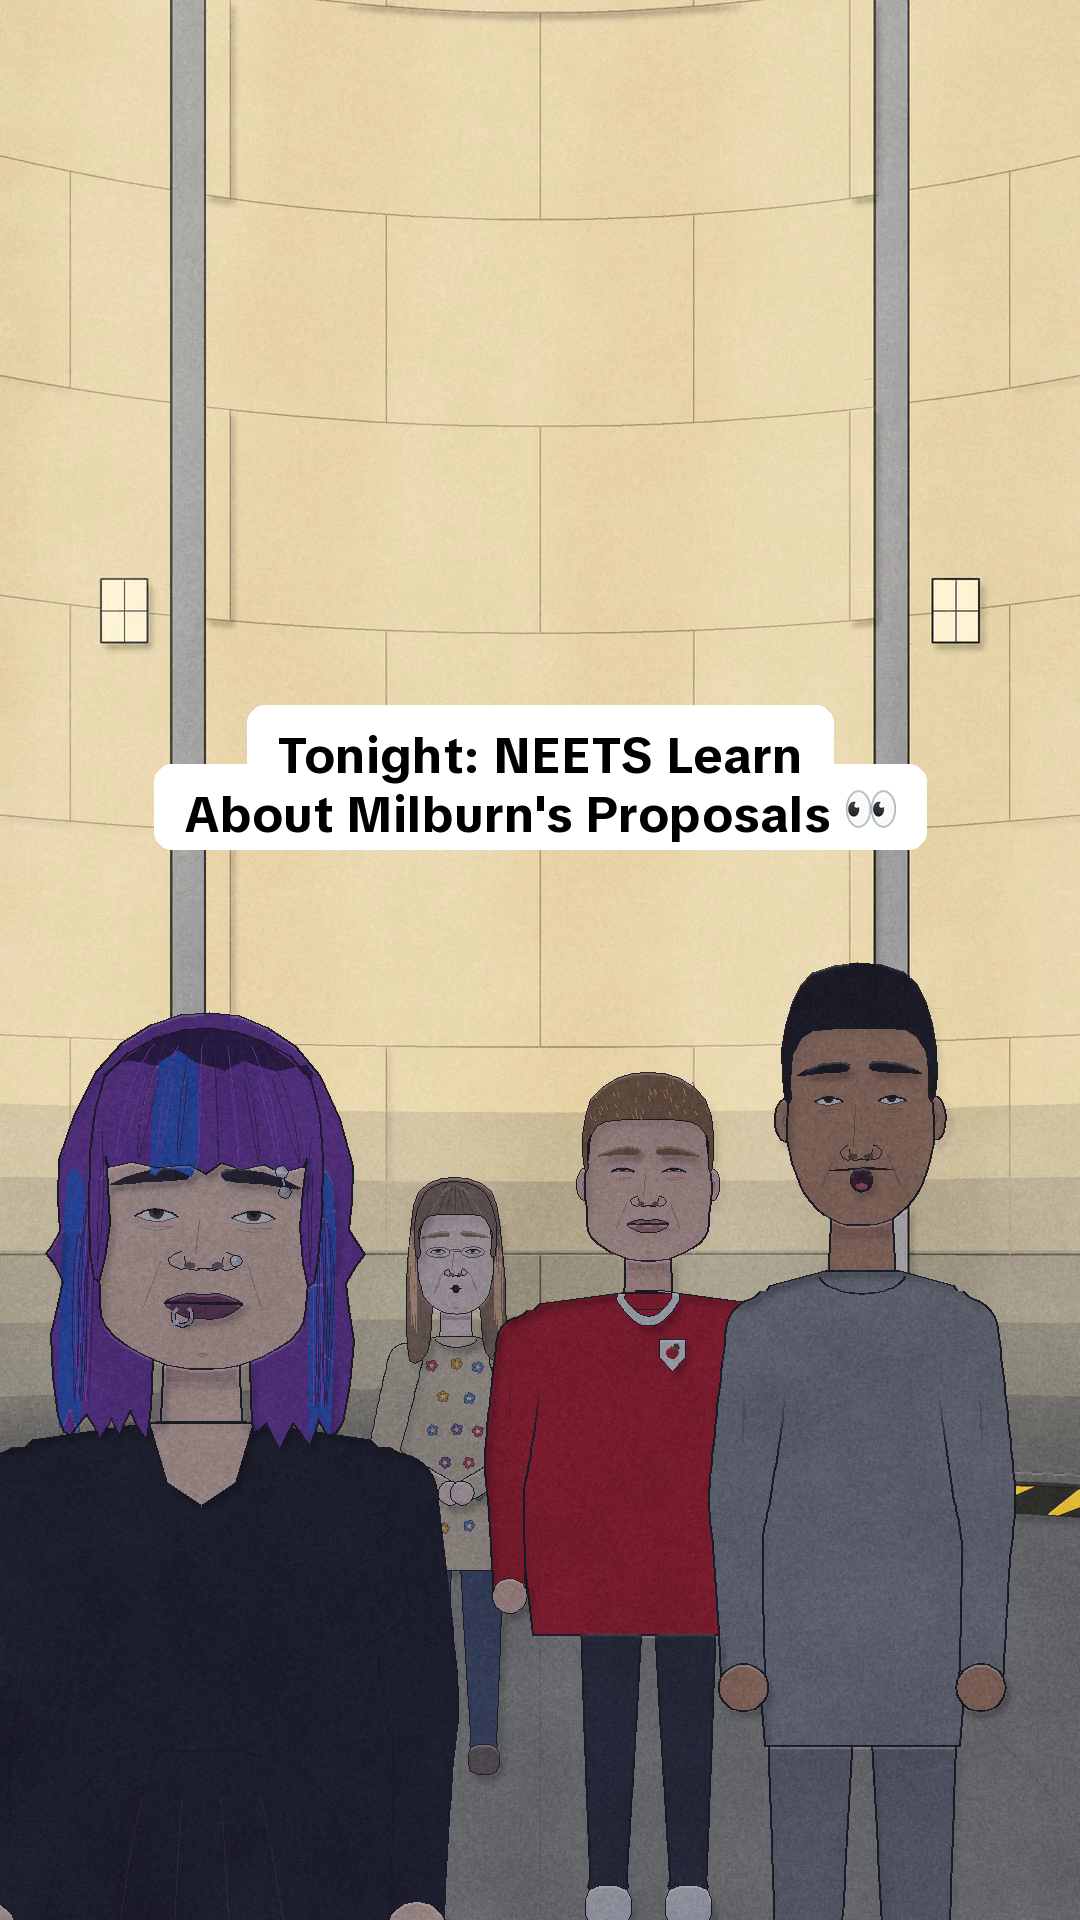
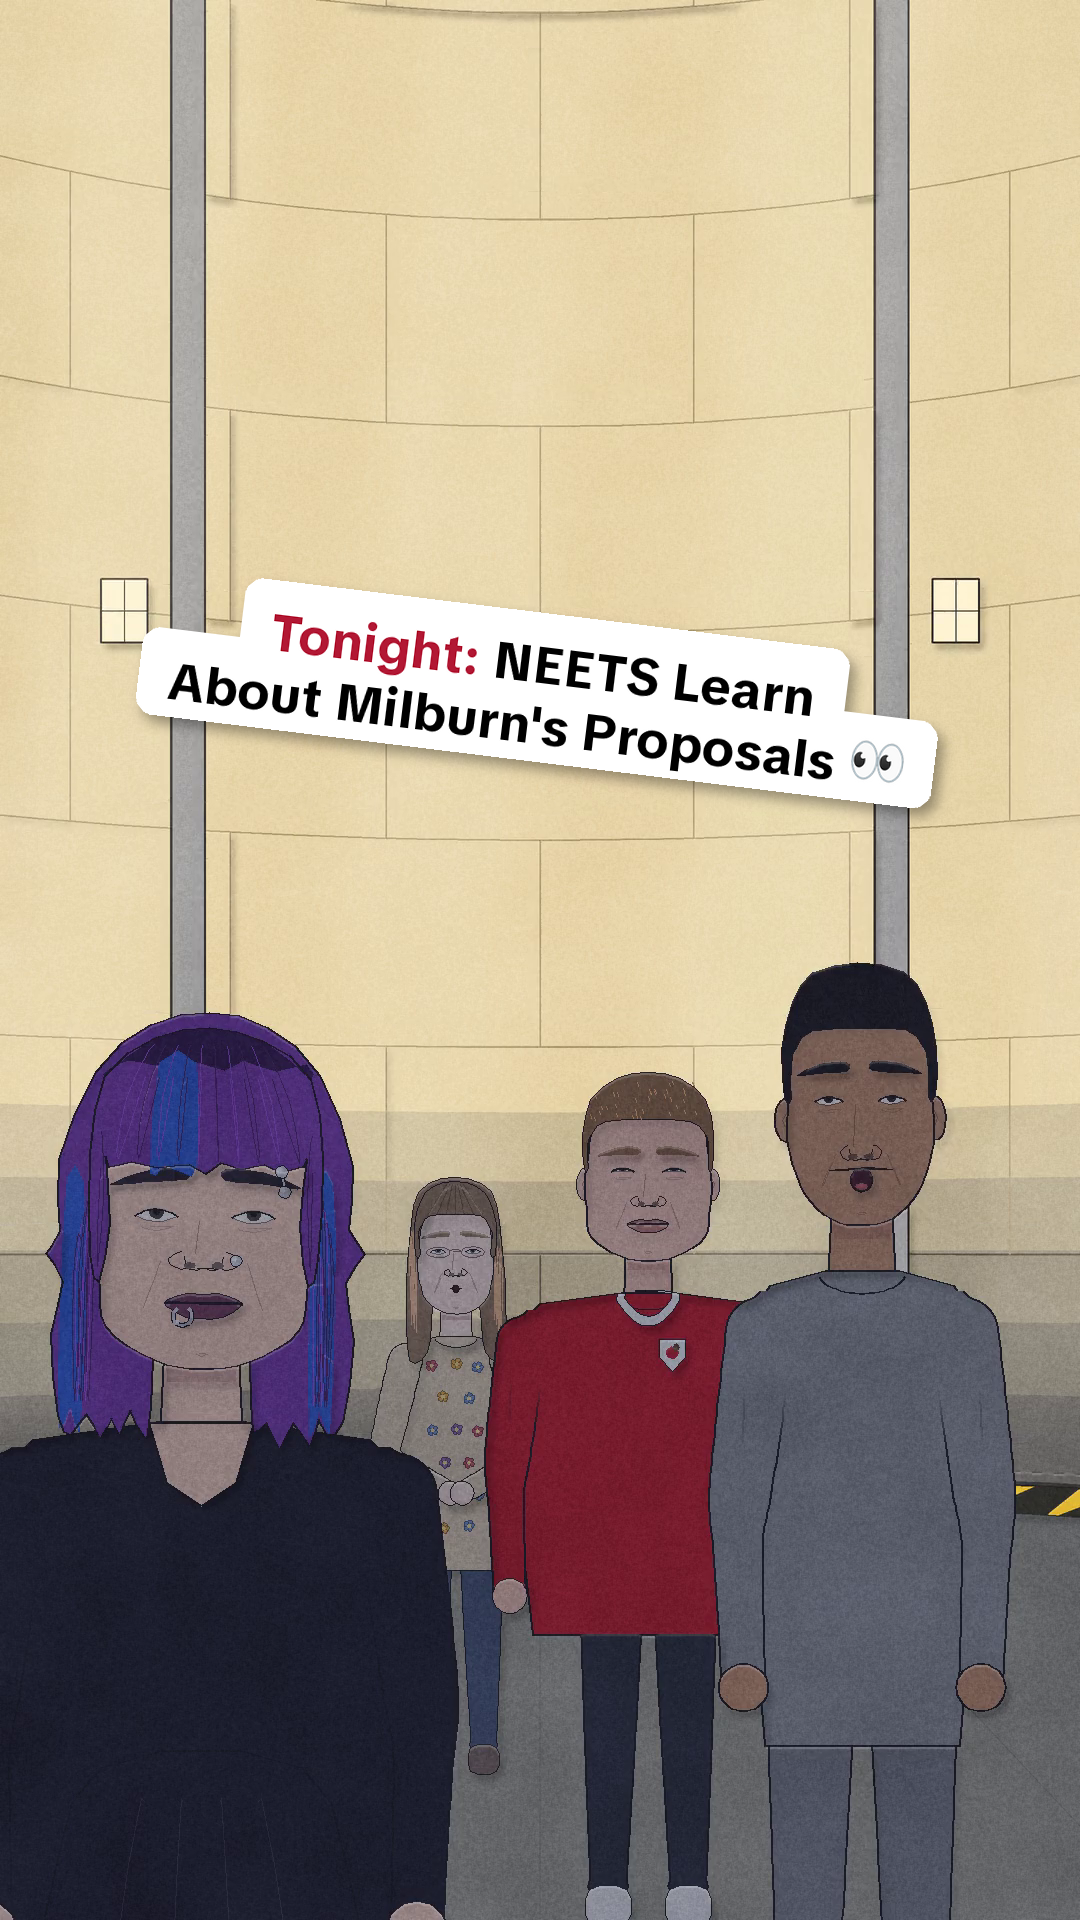
Milburn story post: higher, diagonal, cranberry Tonight, text 2 pt bigger; hook card gets optional accent word
Claude-Session: https://claude.ai/code/session_01J1JB7ZmTrSU4NvegQyvBnB

Changed region(s): [[0.1222, 0.2812, 0.8861, 0.4688]]

diff --git a/source/hook_text.py b/source/hook_text.py
@@ -50,7 +50,7 @@ def _rows(d, words, f, n):
     return best[1]
 
 
-def card(w, h, text, y_mid, path, size=74, centre=False, x_mid=None, width=None, tilt=0.0):
+def card(w, h, text, y_mid, path, size=74, centre=False, x_mid=None, width=None, tilt=0.0, accent=None):
     """`width`: the card's widest row (at 1080 wide) when it sits beside someone (Netan-Yahoo!): up to three rows."""
     k = w / 1080
     room_w = (width if width else SAFE_X1 - SAFE_X0 - 80) * k
@@ -97,7 +97,12 @@ def card(w, h, text, y_mid, path, size=74, centre=False, x_mid=None, width=None,
     for i, r in enumerate(rows):
         last = i == len(rows) - 1
         tw = d.textlength(r, font=f) + (emw if last else 0)
-        d.text((cx - tw / 2, top + i * lh + int(2 * k)), r, font=f, fill=(0, 0, 0, 255))
+        x0, y0 = cx - tw / 2, top + i * lh + int(2 * k)
+        if accent and r.startswith(accent):        # accent: the row's first word(s) in cranberry (Sam, 18 Nov)
+            d.text((x0, y0), accent, font=f, fill=(178, 24, 52, 255))
+            d.text((x0 + d.textlength(accent, font=f), y0), r[len(accent):], font=f, fill=(0, 0, 0, 255))
+        else:
+            d.text((x0, y0), r, font=f, fill=(0, 0, 0, 255))
         if last:
             ex = cx - tw / 2 + d.textlength(r, font=f) + int(10 * k) + d.textlength(' ', font=f) / 2   # a gap after the word
             for ch in tail:
